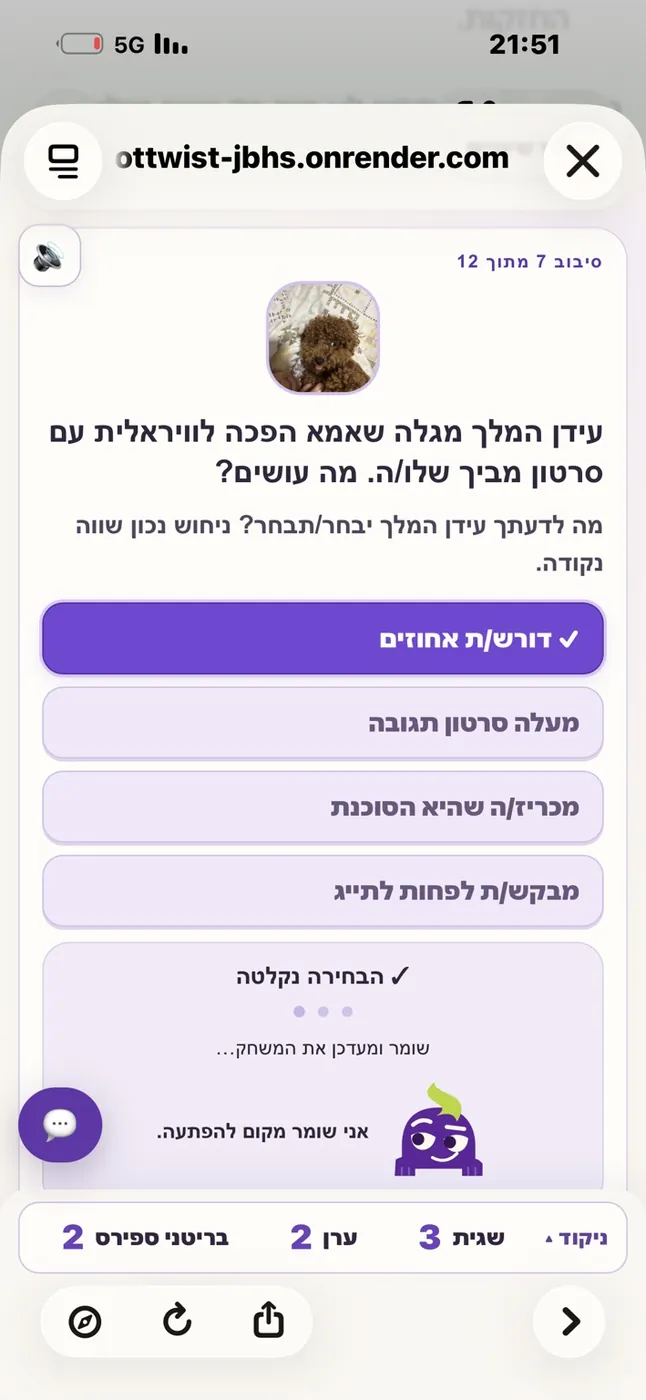
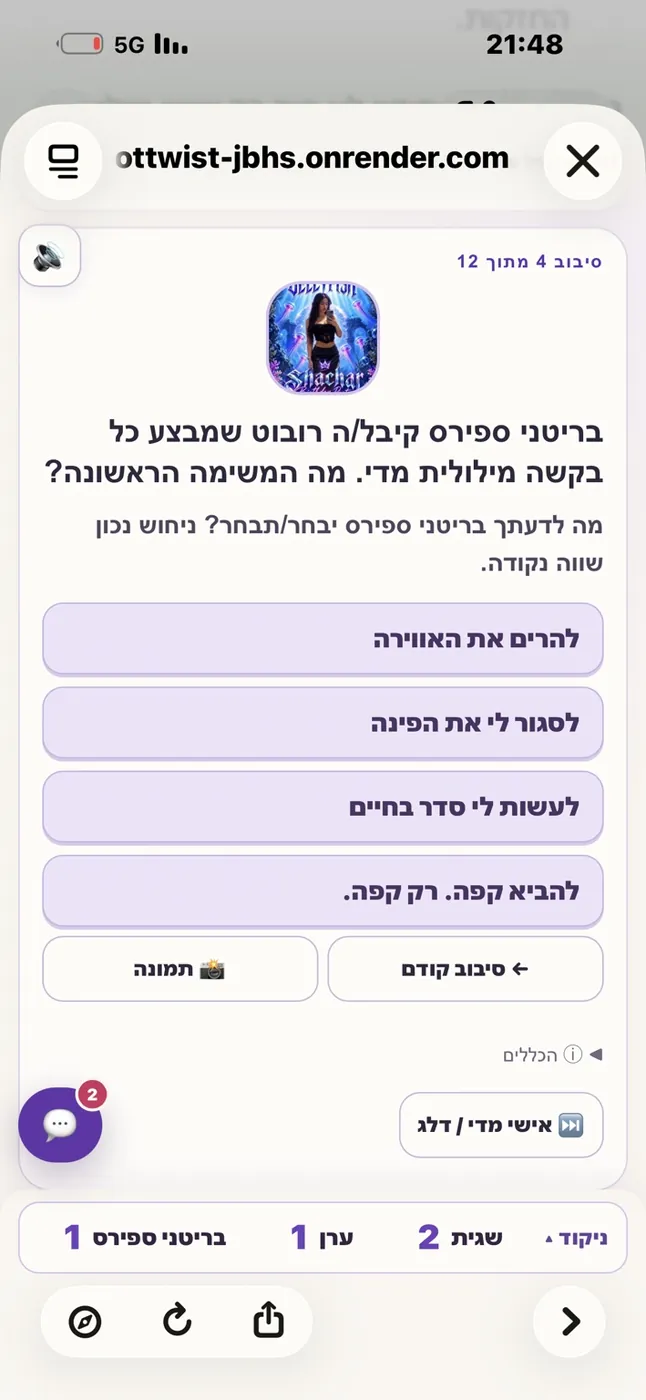
Show real chat notification in MIPO gallery

diff --git a/static/landing.css b/static/landing.css
@@ -1,1 +1,1 @@
-:root{--ink:#241a37;--muted:#716882;--purple:#6c37d8;--deep:#42159c;--pale:#f3edff;--line:#ded1ef;--paper:#fffdfb}*{box-sizing:border-box}html{scroll-behavior:smooth}body{margin:0;background:var(--paper);color:var(--ink);font:16px/1.5 system-ui,-apple-system,"Segoe UI",sans-serif}a{color:inherit}.wrap{width:min(1180px,calc(100% - 40px));margin-inline:auto}.skip{position:absolute;left:-9999px;top:10px;z-index:20;background:#fff;padding:10px}.skip:focus{left:10px}.site-header{background:#fffdfbe8;border-bottom:1px solid #ede6f6}.nav{display:flex;justify-content:space-between;align-items:center;min-height:82px}.mark{display:block;width:150px;height:64px;overflow:hidden;border-radius:12px}.mark img{display:block;width:100%;height:100%;object-fit:cover}.nav-cta{font-weight:800;text-decoration:none;color:var(--deep)}.nav-cta span{margin-left:6px}.hero{display:grid;grid-template-columns:minmax(0,1.05fr) minmax(0,.95fr);gap:30px;align-items:center;padding-block:82px 88px;min-height:660px}.eyebrow{font-size:.78rem;letter-spacing:.16em;font-weight:850;color:var(--purple);margin:0 0 18px}.spark{font-size:1.3rem;margin-right:5px}h1,h2,h3,p{margin-top:0}h1,h2{letter-spacing:-.05em;line-height:1.06}h1{font-size:clamp(3.35rem,5.6vw,5.8rem);margin-bottom:25px;font-weight:850}h1 em{font-style:normal;color:var(--purple)}h2{font-size:clamp(2.45rem,4vw,4.2rem);font-weight:820;margin-bottom:30px}.lede{font-size:1.22rem;line-height:1.55;color:#5e556d;max-width:550px;margin-bottom:28px}.actions{display:flex;gap:12px;flex-wrap:wrap}.btn{display:inline-flex;align-items:center;justify-content:center;gap:12px;text-align:center;text-decoration:none;border-radius:16px;font-weight:800;min-height:54px;padding:14px 22px;transition:transform .2s,box-shadow .2s}.btn:hover{transform:translateY(-2px)}.btn:focus-visible,a:focus-visible,summary:focus-visible{outline:3px solid #b595ff;outline-offset:3px}.btn-main{color:white;background:var(--purple);box-shadow:0 10px 25px #6c37d82d}.btn-main:hover{background:#582bb7}.btn-outline{border:1.5px solid #b89adf;color:var(--deep);background:white}.hero-note{color:#857995;font-size:.87rem;margin:18px 0 0}.hero-note span{color:#a680e0;margin-inline:10px}.hero-visual{height:520px;position:relative;isolation:isolate}.halo{position:absolute;inset:55px 5px 25px 4px;background:radial-gradient(circle,#dfcfff 0%,#f0e8ff 45%,transparent 72%);filter:blur(10px);z-index:-1}.phone{position:absolute;margin:0;width:46%;height:430px;overflow:hidden;background:white;border:6px solid #fff;border-radius:26px;box-shadow:0 28px 55px #3b1d6630;transform:rotate(-6deg)}.phone img,.shot img{display:block;width:100%;height:100%;object-fit:cover;object-position:center 47%}.phone-guess{left:8%;top:8px}.phone-reveal{right:4%;top:70px;transform:rotate(7deg)}.phone-reveal img{object-position:center 51%}.phone figcaption{position:absolute;bottom:0;left:0;right:0;background:#fff;padding:9px 12px;text-align:center;font-weight:850;font-size:.72rem;letter-spacing:.13em;color:var(--purple)}.band{background:var(--deep);color:white;padding-block:78px}.band .eyebrow{color:#cbb2ff}.band h2{max-width:780px}.steps{display:grid;grid-template-columns:repeat(4,1fr);gap:14px}.steps div{border-top:1px solid #a584df;padding-top:17px}.steps span{color:#cbb2ff;font-weight:800;font-size:.83rem}.steps h3{font-size:1.2rem;line-height:1.32;margin:17px 0 0;letter-spacing:-.02em}.section{padding-block:84px}.experience{display:grid;grid-template-columns:1fr 1fr;gap:70px}.experience h2{max-width:560px}.experience-copy p{font-size:1.21rem;padding:12px 0 15px;border-bottom:1px solid var(--line);margin:0}.audience-grid{display:grid;grid-template-columns:repeat(3,1fr);gap:18px}.audience article{min-height:225px;padding:28px;border-radius:22px;background:#f7f2ff;border:1px solid #e6d9f6}.audience article span{color:var(--purple);font-size:1.9rem}.audience h3{font-size:1.55rem;letter-spacing:-.025em;margin:16px 0 7px}.audience p{color:#625a6e}.pricing-band{background:#f5f0fb}.pricing-band h2{margin-bottom:12px}.pricing-status{color:#5b5071;margin-bottom:28px}.price-grid{display:grid;grid-template-columns:repeat(3,1fr);gap:16px}.price-card{background:white;border:1px solid #ded0f1;border-radius:22px;padding:26px;display:flex;flex-direction:column;min-height:350px}.price-card.featured{border:2px solid var(--purple);box-shadow:0 18px 40px #42159c12}.plan{font-size:.78rem;letter-spacing:.14em;font-weight:850;color:var(--purple);margin:0 0 10px}.price{font-size:3.2rem;font-weight:850;letter-spacing:-.06em;margin:0}.price-card h3{font-size:1.16rem;margin:1px 0 12px}.price-card>p:not(.plan):not(.price){color:#746a7d;font-size:.92rem}.price-card .btn{margin-top:auto}.price-card small{display:block;text-align:center;color:#776d84;margin-top:10px}.btn-soft{background:#eee5fb;color:var(--deep)}.extension{display:flex;align-items:center;justify-content:space-between;gap:20px;background:white;border:1px solid #ded0f1;border-radius:18px;padding:20px 24px;margin-top:17px}.extension div{display:grid;gap:4px}.extension strong{font-size:1.12rem}.extension span{color:#675d74}.extension b{font-size:1.5rem;color:var(--deep);white-space:nowrap}.group-note{text-align:center;font-weight:800;margin:27px 0}.availability{background:#e8ddf7;color:#463260;border-radius:15px;padding:17px 20px;font-size:.92rem}.availability a{font-weight:800;color:var(--deep)}.gallery-intro{color:var(--muted);max-width:650px}.screen-grid{display:grid;grid-template-columns:repeat(4,1fr);gap:18px}.screen-grid figure{margin:0}.shot{height:330px;border:6px solid #fff;border-radius:20px;overflow:hidden;box-shadow:0 15px 32px #35185c20;background:white}.shot img{object-position:center 45%}.screen-grid figure:nth-child(3) img{object-position:center 51%}.screen-grid figcaption{font-weight:800;margin-top:12px}.faq{max-width:850px}.faq-list{border-top:1px solid var(--line)}details{border-bottom:1px solid var(--line);padding:18px 0}summary{cursor:pointer;list-style:none;font-weight:800;display:flex;justify-content:space-between;gap:20px}summary::-webkit-details-marker{display:none}summary:after{content:"+";font-size:1.4rem;color:var(--purple);line-height:1}details[open] summary:after{content:"−"}details p{color:#645a72;margin:12px 32px 0 0}.final-cta{background:var(--purple);color:white;text-align:center;padding:78px 0}.final-cta h2{max-width:800px;margin:0 auto 26px}.final-cta .eyebrow{color:#e0d0ff}.final-cta .actions{justify-content:center}.btn-white{background:white;color:var(--deep)}.btn-light-outline{border:1.5px solid #ded0ff;color:white}.footer{display:flex;justify-content:space-between;gap:20px;color:#716882;padding-block:30px;font-size:.87rem}@media(max-width:850px){.hero{grid-template-columns:1fr;min-height:auto;padding-block:55px 50px}.hero-visual{height:470px;max-width:650px;width:100%;margin:auto}.steps,.screen-grid{grid-template-columns:repeat(2,1fr)}.experience{gap:30px}.price-grid{gap:10px}.price-card{padding:20px}}@media(max-width:620px){.wrap{width:min(100% - 32px,460px)}.nav{min-height:72px}.mark{width:125px;height:55px}.hero{padding-block:37px 48px;gap:14px}h1{font-size:clamp(2.9rem,11vw,4.2rem)}h2{font-size:2.7rem}.lede{font-size:1.04rem}.hero .btn{width:100%}.hero-visual{height:365px}.phone{height:330px;width:48%;border-width:4px;border-radius:18px}.phone-guess{left:2%;top:0}.phone-reveal{right:0;top:29px}.phone figcaption{font-size:.56rem}.band,.section,.final-cta{padding-block:58px}.steps{grid-template-columns:1fr 1fr;gap:25px 14px}.steps h3{font-size:1.06rem}.experience{grid-template-columns:1fr;gap:0}.experience-copy p{font-size:1.08rem}.audience-grid,.price-grid{grid-template-columns:1fr}.audience article{min-height:0;padding:22px}.price-card{min-height:300px;padding:24px}.extension{align-items:flex-start}.extension b{font-size:1.2rem}.screen-grid{gap:12px}.shot{height:240px;border-width:4px}.screen-grid figcaption{font-size:.83rem}.footer{display:block}.footer span{display:block;margin:3px 0}.final-cta .btn{width:100%}}@media(prefers-reduced-motion:reduce){html{scroll-behavior:auto}.btn{transition:none}}
+:root{--ink:#241a37;--muted:#716882;--purple:#6c37d8;--deep:#42159c;--pale:#f3edff;--line:#ded1ef;--paper:#fffdfb}*{box-sizing:border-box}html{scroll-behavior:smooth}body{margin:0;background:var(--paper);color:var(--ink);font:16px/1.5 system-ui,-apple-system,"Segoe UI",sans-serif}a{color:inherit}.wrap{width:min(1180px,calc(100% - 40px));margin-inline:auto}.skip{position:absolute;left:-9999px;top:10px;z-index:20;background:#fff;padding:10px}.skip:focus{left:10px}.site-header{background:#fffdfbe8;border-bottom:1px solid #ede6f6}.nav{display:flex;justify-content:space-between;align-items:center;min-height:82px}.mark{display:block;width:150px;height:64px;overflow:hidden;border-radius:12px}.mark img{display:block;width:100%;height:100%;object-fit:cover}.nav-cta{font-weight:800;text-decoration:none;color:var(--deep)}.nav-cta span{margin-left:6px}.hero{display:grid;grid-template-columns:minmax(0,1.05fr) minmax(0,.95fr);gap:30px;align-items:center;padding-block:82px 88px;min-height:660px}.eyebrow{font-size:.78rem;letter-spacing:.16em;font-weight:850;color:var(--purple);margin:0 0 18px}.spark{font-size:1.3rem;margin-right:5px}h1,h2,h3,p{margin-top:0}h1,h2{letter-spacing:-.05em;line-height:1.06}h1{font-size:clamp(3.35rem,5.6vw,5.8rem);margin-bottom:25px;font-weight:850}h1 em{font-style:normal;color:var(--purple)}h2{font-size:clamp(2.45rem,4vw,4.2rem);font-weight:820;margin-bottom:30px}.lede{font-size:1.22rem;line-height:1.55;color:#5e556d;max-width:550px;margin-bottom:28px}.actions{display:flex;gap:12px;flex-wrap:wrap}.btn{display:inline-flex;align-items:center;justify-content:center;gap:12px;text-align:center;text-decoration:none;border-radius:16px;font-weight:800;min-height:54px;padding:14px 22px;transition:transform .2s,box-shadow .2s}.btn:hover{transform:translateY(-2px)}.btn:focus-visible,a:focus-visible,summary:focus-visible{outline:3px solid #b595ff;outline-offset:3px}.btn-main{color:white;background:var(--purple);box-shadow:0 10px 25px #6c37d82d}.btn-main:hover{background:#582bb7}.btn-outline{border:1.5px solid #b89adf;color:var(--deep);background:white}.hero-note{color:#857995;font-size:.87rem;margin:18px 0 0}.hero-note span{color:#a680e0;margin-inline:10px}.hero-visual{height:520px;position:relative;isolation:isolate}.halo{position:absolute;inset:55px 5px 25px 4px;background:radial-gradient(circle,#dfcfff 0%,#f0e8ff 45%,transparent 72%);filter:blur(10px);z-index:-1}.phone{position:absolute;margin:0;width:46%;height:430px;overflow:hidden;background:white;border:6px solid #fff;border-radius:26px;box-shadow:0 28px 55px #3b1d6630;transform:rotate(-6deg)}.phone img,.shot img{display:block;width:100%;height:100%;object-fit:cover;object-position:center 47%}.phone-guess{left:8%;top:8px}.phone-reveal{right:4%;top:70px;transform:rotate(7deg)}.phone-reveal img{object-position:center 51%}.phone figcaption{position:absolute;bottom:0;left:0;right:0;background:#fff;padding:9px 12px;text-align:center;font-weight:850;font-size:.72rem;letter-spacing:.13em;color:var(--purple)}.band{background:var(--deep);color:white;padding-block:78px}.band .eyebrow{color:#cbb2ff}.band h2{max-width:780px}.steps{display:grid;grid-template-columns:repeat(4,1fr);gap:14px}.steps div{border-top:1px solid #a584df;padding-top:17px}.steps span{color:#cbb2ff;font-weight:800;font-size:.83rem}.steps h3{font-size:1.2rem;line-height:1.32;margin:17px 0 0;letter-spacing:-.02em}.section{padding-block:84px}.experience{display:grid;grid-template-columns:1fr 1fr;gap:70px}.experience h2{max-width:560px}.experience-copy p{font-size:1.21rem;padding:12px 0 15px;border-bottom:1px solid var(--line);margin:0}.audience-grid{display:grid;grid-template-columns:repeat(3,1fr);gap:18px}.audience article{min-height:225px;padding:28px;border-radius:22px;background:#f7f2ff;border:1px solid #e6d9f6}.audience article span{color:var(--purple);font-size:1.9rem}.audience h3{font-size:1.55rem;letter-spacing:-.025em;margin:16px 0 7px}.audience p{color:#625a6e}.pricing-band{background:#f5f0fb}.pricing-band h2{margin-bottom:12px}.pricing-status{color:#5b5071;margin-bottom:28px}.price-grid{display:grid;grid-template-columns:repeat(3,1fr);gap:16px}.price-card{background:white;border:1px solid #ded0f1;border-radius:22px;padding:26px;display:flex;flex-direction:column;min-height:350px}.price-card.featured{border:2px solid var(--purple);box-shadow:0 18px 40px #42159c12}.plan{font-size:.78rem;letter-spacing:.14em;font-weight:850;color:var(--purple);margin:0 0 10px}.price{font-size:3.2rem;font-weight:850;letter-spacing:-.06em;margin:0}.price-card h3{font-size:1.16rem;margin:1px 0 12px}.price-card>p:not(.plan):not(.price){color:#746a7d;font-size:.92rem}.price-card .btn{margin-top:auto}.price-card small{display:block;text-align:center;color:#776d84;margin-top:10px}.btn-soft{background:#eee5fb;color:var(--deep)}.extension{display:flex;align-items:center;justify-content:space-between;gap:20px;background:white;border:1px solid #ded0f1;border-radius:18px;padding:20px 24px;margin-top:17px}.extension div{display:grid;gap:4px}.extension strong{font-size:1.12rem}.extension span{color:#675d74}.extension b{font-size:1.5rem;color:var(--deep);white-space:nowrap}.group-note{text-align:center;font-weight:800;margin:27px 0}.availability{background:#e8ddf7;color:#463260;border-radius:15px;padding:17px 20px;font-size:.92rem}.availability a{font-weight:800;color:var(--deep)}.gallery-intro{color:var(--muted);max-width:650px}.screen-grid{display:grid;grid-template-columns:repeat(4,1fr);gap:18px}.screen-grid figure{margin:0}.shot{height:330px;border:6px solid #fff;border-radius:20px;overflow:hidden;box-shadow:0 15px 32px #35185c20;background:white}.shot img{object-position:center 45%}.screen-grid figure:nth-child(3) img{object-position:center 51%}.screen-grid figure:nth-child(4) img{object-position:center 100%}.screen-grid figcaption{font-weight:800;margin-top:12px}.faq{max-width:850px}.faq-list{border-top:1px solid var(--line)}details{border-bottom:1px solid var(--line);padding:18px 0}summary{cursor:pointer;list-style:none;font-weight:800;display:flex;justify-content:space-between;gap:20px}summary::-webkit-details-marker{display:none}summary:after{content:"+";font-size:1.4rem;color:var(--purple);line-height:1}details[open] summary:after{content:"−"}details p{color:#645a72;margin:12px 32px 0 0}.final-cta{background:var(--purple);color:white;text-align:center;padding:78px 0}.final-cta h2{max-width:800px;margin:0 auto 26px}.final-cta .eyebrow{color:#e0d0ff}.final-cta .actions{justify-content:center}.btn-white{background:white;color:var(--deep)}.btn-light-outline{border:1.5px solid #ded0ff;color:white}.footer{display:flex;justify-content:space-between;gap:20px;color:#716882;padding-block:30px;font-size:.87rem}@media(max-width:850px){.hero{grid-template-columns:1fr;min-height:auto;padding-block:55px 50px}.hero-visual{height:470px;max-width:650px;width:100%;margin:auto}.steps,.screen-grid{grid-template-columns:repeat(2,1fr)}.experience{gap:30px}.price-grid{gap:10px}.price-card{padding:20px}}@media(max-width:620px){.wrap{width:min(100% - 32px,460px)}.nav{min-height:72px}.mark{width:125px;height:55px}.hero{padding-block:37px 48px;gap:14px}h1{font-size:clamp(2.9rem,11vw,4.2rem)}h2{font-size:2.7rem}.lede{font-size:1.04rem}.hero .btn{width:100%}.hero-visual{height:365px}.phone{height:330px;width:48%;border-width:4px;border-radius:18px}.phone-guess{left:2%;top:0}.phone-reveal{right:0;top:29px}.phone figcaption{font-size:.56rem}.band,.section,.final-cta{padding-block:58px}.steps{grid-template-columns:1fr 1fr;gap:25px 14px}.steps h3{font-size:1.06rem}.experience{grid-template-columns:1fr;gap:0}.experience-copy p{font-size:1.08rem}.audience-grid,.price-grid{grid-template-columns:1fr}.audience article{min-height:0;padding:22px}.price-card{min-height:300px;padding:24px}.extension{align-items:flex-start}.extension b{font-size:1.2rem}.screen-grid{gap:12px}.shot{height:240px;border-width:4px}.screen-grid figcaption{font-size:.83rem}.footer{display:block}.footer span{display:block;margin:3px 0}.final-cta .btn{width:100%}}@media(prefers-reduced-motion:reduce){html{scroll-behavior:auto}.btn{transition:none}}

diff --git a/static/landing.html b/static/landing.html
@@ -6,7 +6,7 @@
   <meta name="theme-color" content="#f9f6ff">
   <meta name="description" content="MIPO is the social guessing game for friends, couples and families. Answer in secret, guess together, and enjoy the reveal.">
   <title>Play MIPO — The Social Guessing Game</title>
-  <link rel="stylesheet" href="/static/landing.css?v=1">
+  <link rel="stylesheet" href="/static/landing.css?v=2">
 </head>
 <body>
   <a class="skip" href="#main">Skip to content</a>
@@ -110,7 +110,7 @@
         <figure><div class="shot"><img src="/static/branding/guess.webp" alt="Real player guessing screen with four answers" width="646" height="1400" loading="lazy"></div><figcaption>Guess together</figcaption></figure>
         <figure><div class="shot"><img src="/static/branding/reveal.webp" alt="Real reveal screen showing a secret answer and the players' guesses" width="646" height="1400" loading="lazy"></div><figcaption>The reveal</figcaption></figure>
         <figure><div class="shot"><img src="/static/branding/ai-scene.webp" alt="Real AI image displayed during a game reveal" width="646" height="1400" loading="lazy"></div><figcaption>AI images</figcaption></figure>
-        <figure><div class="shot"><img src="/static/branding/chat.webp" alt="Real game screen with the chat button and emoji interface" width="646" height="1400" loading="lazy"></div><figcaption>Chat &amp; emojis</figcaption></figure>
+        <figure><div class="shot"><img src="/static/branding/chat.webp?v=2" alt="Real game screen showing the chat button with unread messages" width="646" height="1400" loading="lazy"></div><figcaption>Chat &amp; emojis</figcaption></figure>
       </div>
     </section>
 
